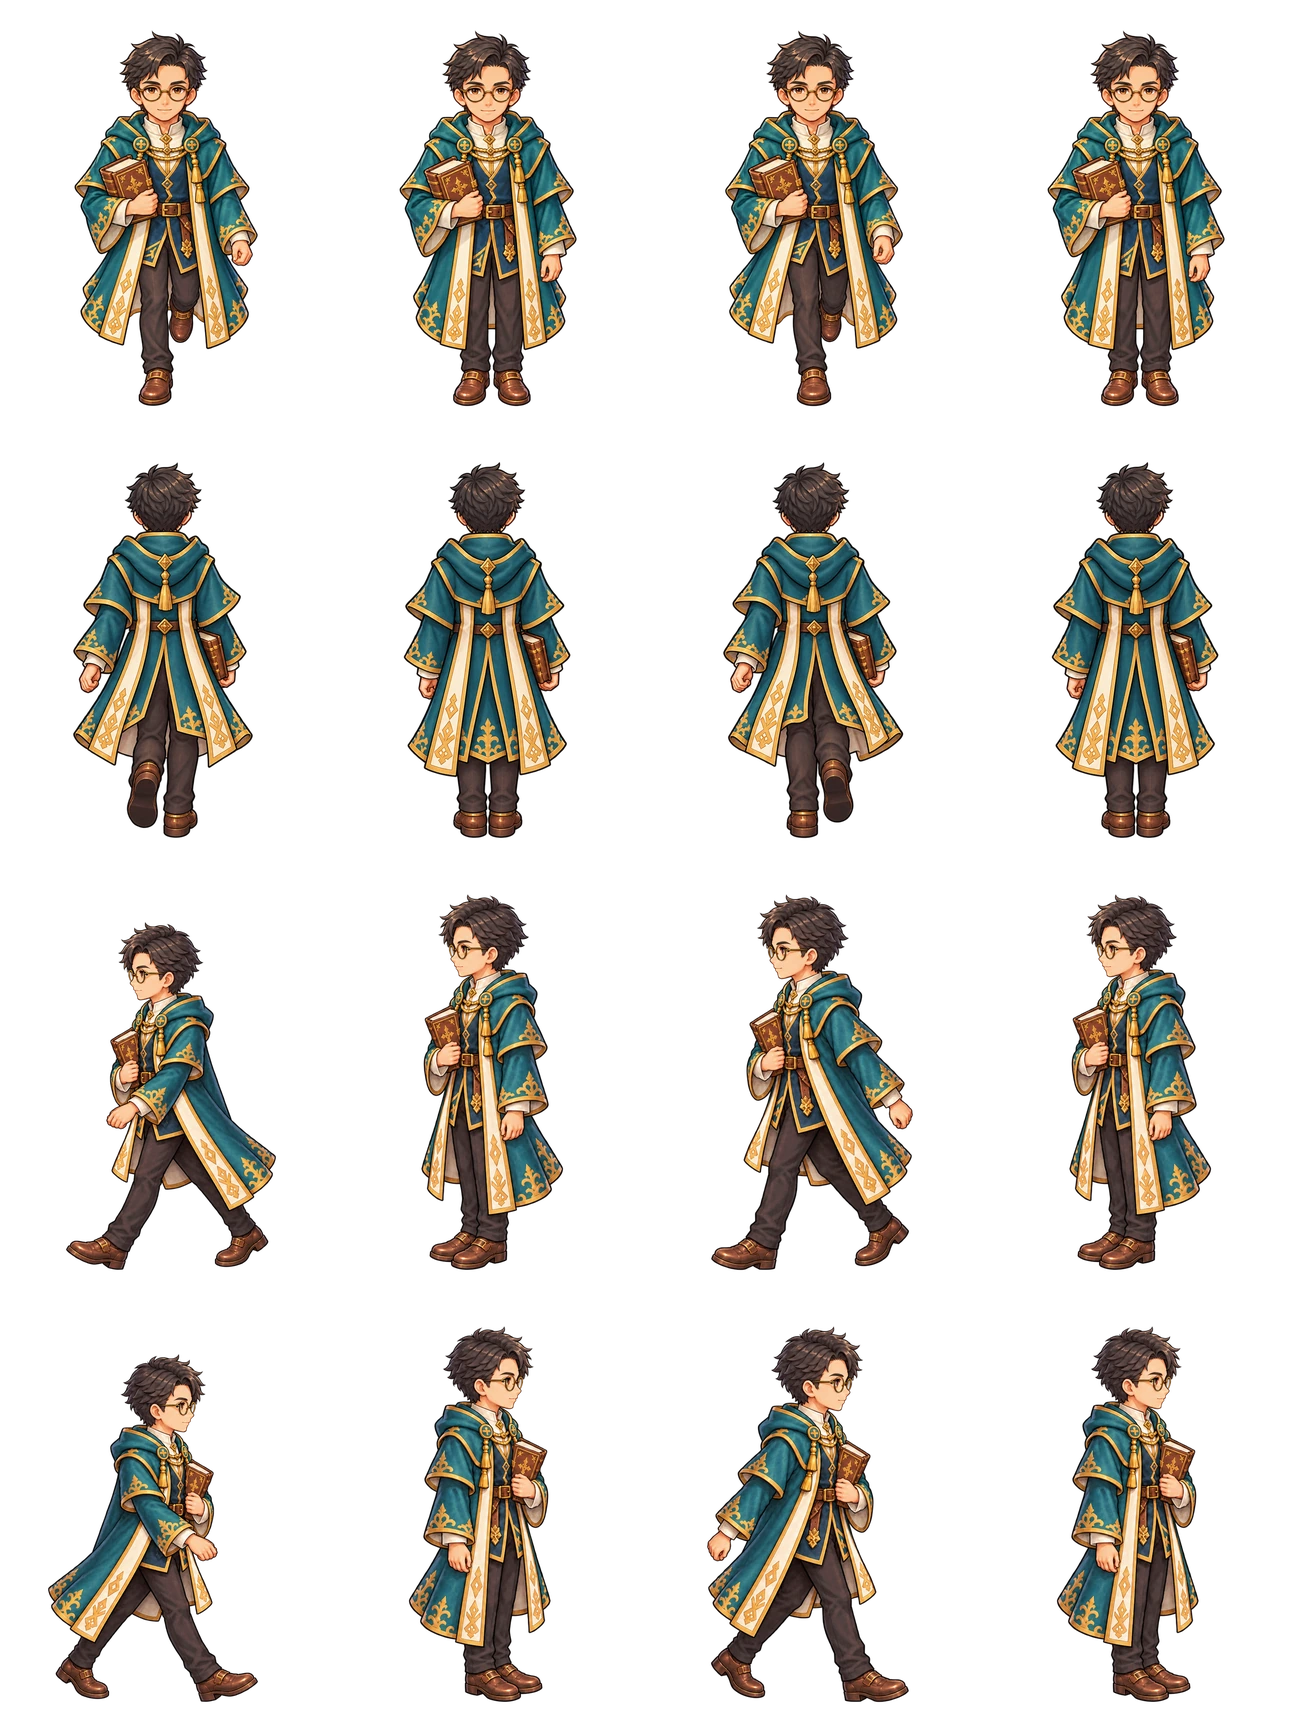
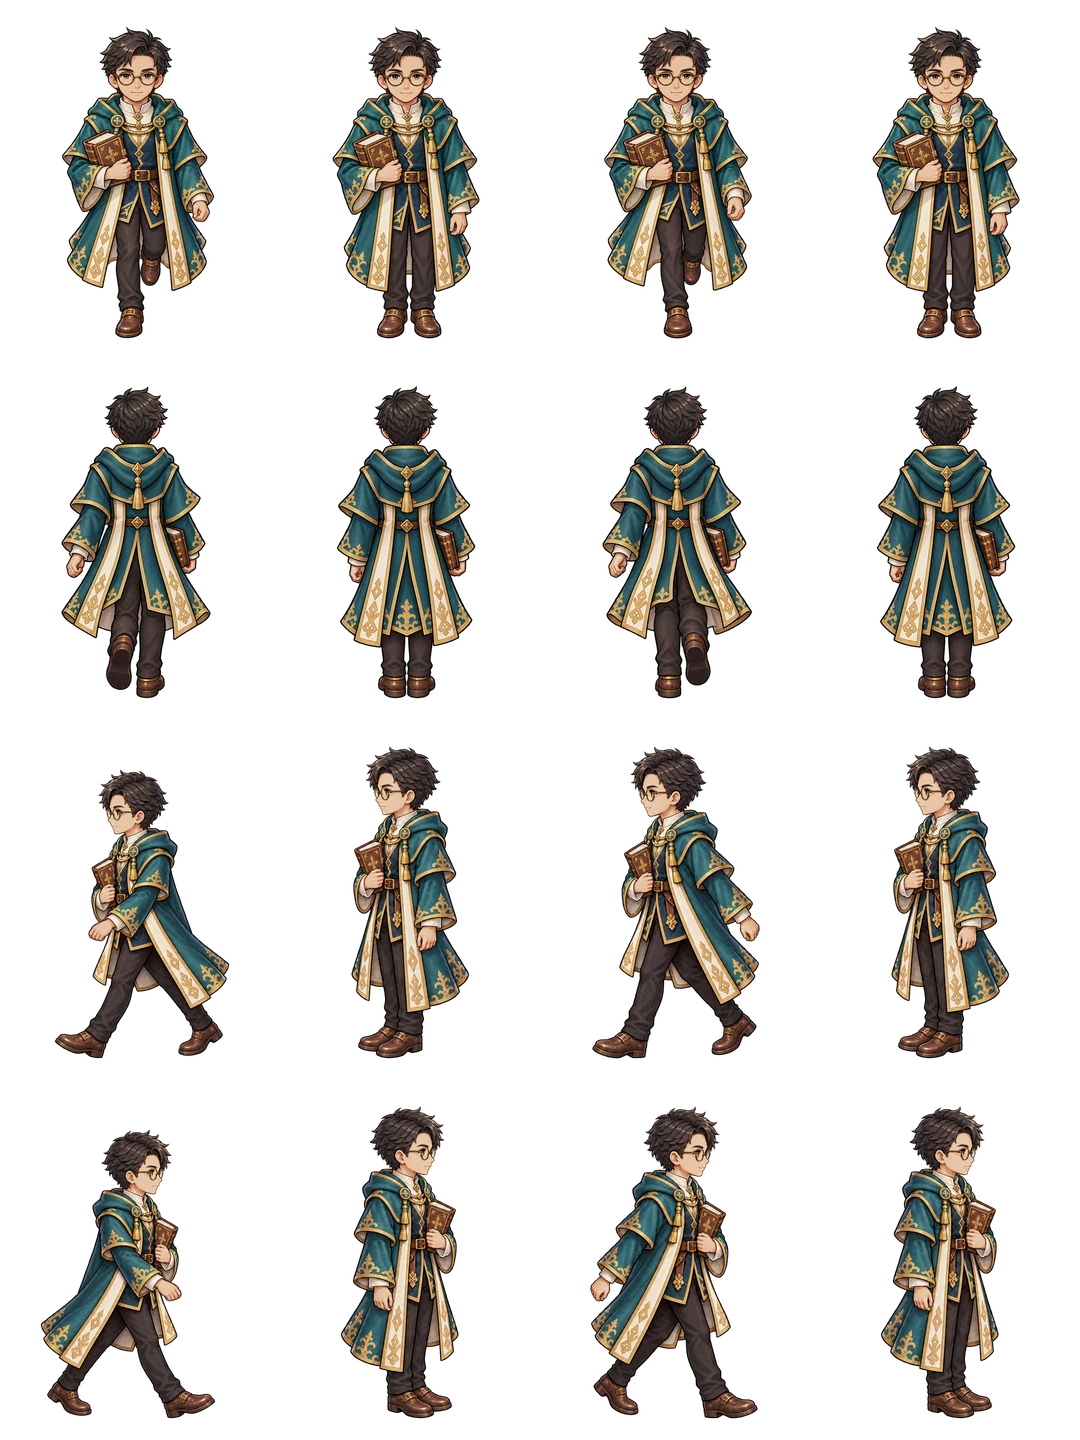
歩くときのコマ飛び対策：人物の色の調整を絵に焼き込み、絵を1.25倍に、毎コマの余計な書き換えを減らす
Claude-Session: https://claude.ai/code/session_01RvBABkjo9HJpsiThHncs5B

diff --git a/src/ui/screens/worldScreen.ts b/src/ui/screens/worldScreen.ts
@@ -329,14 +329,17 @@ class WorldView {
     const k = this.#figureH / (FRAME_H / 2);
     const f = this.#foot(p);
     el.style.transform = `translate(${f.x - (FOOT_X / 2) * k}px, ${f.y - (FOOT_Y / 2) * k - lift}px)`;
-    el.style.zIndex = String(10 + Math.round(f.y));
+    // 変わったときだけ書く（毎コマ書くと、iPhone で重なり順の計算し直しが重くなる）
+    const z = String(10 + Math.round(f.y));
+    if (el.style.zIndex !== z) el.style.zIndex = z;
     const shadow = this.#shadows.get(el);
     if (shadow) shadow.style.transform = `translate(${f.x}px, ${f.y}px)`;
   }
 
   /** 人物の足元の影（地面に置く。家具・人物より奥） */
   #addShadow(el: HTMLElement): void {
-    const shadow = h('div', { class: 'world__shadow', attrs: { 'aria-hidden': 'true' } });
+    const cls = el === this.#player ? 'world__shadow world__shadow--player' : 'world__shadow';
+    const shadow = h('div', { class: cls, attrs: { 'aria-hidden': 'true' } });
     const w = this.#figureH * 0.5;
     Object.assign(shadow.style, { width: `${w}px`, height: `${w * 0.32}px`, marginLeft: `${-w / 2}px`, marginTop: `${-w * 0.16}px` });
     this.#shadows.set(el, shadow);
@@ -813,8 +816,10 @@ class WorldView {
         sign.el.style.transform = `translate(-50%, calc(-100% + ${shift.toFixed(1)}px))`;
       }
     }
-    this.#root.dataset.px = String(this.#tile.x);
-    this.#root.dataset.py = String(this.#tile.y);
+    const px = String(this.#tile.x);
+    const py = String(this.#tile.y);
+    if (this.#root.dataset.px !== px) this.#root.dataset.px = px;
+    if (this.#root.dataset.py !== py) this.#root.dataset.py = py;
     if (!this.#move) this.#updateNear();
   }
 

diff --git a/src/ui/styles/world.css b/src/ui/styles/world.css
@@ -115,11 +115,8 @@
   -webkit-user-drag: none;
 }
 
-/* 2026-10-23：大人向けに、人物などの絵の色を少し落ち着かせる（彩度を下げ、わずかに暗く）。
-   街・部屋・家具は大人向けに描き直した絵（2026-10-23 納品）が落ち着いた色なので、色の調整はしない。
-   人物の描き直しが届いたら、人物の値も見直す */
-.world__map--art .world__player,
-.world__map--art .world__npc,
+/* 2026-10-23：大人向けに、宝箱の絵の色を少し落ち着かせる（彩度を下げ、わずかに暗く）。
+   人物は同じ色の調整を絵に焼き込んだ（tools/art/adult_walk_build.py --tone）。filter のままだと歩くたびに描き直しが重く、iPhone でコマが飛んだ */
 .world__map--art .world__chest {
   filter: saturate(0.72) brightness(0.94) contrast(1.06);
 }
@@ -328,6 +325,12 @@
   left: 0;
   background-repeat: no-repeat;
   pointer-events: none;
+}
+
+/* 主人公と足元の影は毎コマ動くので、地図とは別の層にして、動かすだけで描き直さないように */
+.world__player,
+.world__shadow--player {
+  will-change: transform;
 }
 
 /* 移動のスティック：指を置いた所に、触っている間だけ半透明で出る */

diff --git a/tools/art/adult_walk_build.py b/tools/art/adult_walk_build.py
@@ -15,8 +15,11 @@
 使い方:
   python3 tools/art/adult_walk_build.py 届いた絵のフォルダ ID 出力.png [--npc] [--idle 立ち絵の出力.png] [--scale 倍率]
 
---scale：コマの大きさの倍率（2026-10-23 追加）。1.5 なら 1コマ 324×432・足元 (162, 405)。並び・位置の割合は同じなので、
-  ゲームはそのまま読める。人物を大きく表示してもぼやけないように、ゲームのシートは 1.5 で作る（出力は .webp）
+--scale：コマの大きさの倍率（2026-10-23 追加）。1.25 なら 1コマ 270×360・足元 (135, 338)。並び・位置の割合は同じなので、
+  ゲームはそのまま読める。人物を大きく表示してもぼやけないように、ゲームのシートは 1.25 で作る（出力は .webp）。
+  1.5 も試したが、iPhone で絵が大きすぎて歩くときにコマが飛んだ（2026-10-23）
+--tone：大人向けの色の落ち着かせ（彩度 0.72・明るさ 0.94・コントラスト 1.06）を絵に焼き込む（2026-10-23 追加）。
+  それまでは CSS の filter で毎回計算していて、歩くたびに描き直しが重くなっていた
 """
 import sys
 
@@ -108,6 +111,23 @@ def figure_height(sheet: Image.Image) -> int:
     return int(ys[-1] - ys[0])
 
 
+def tone(im: Image.Image) -> Image.Image:
+    """CSS の filter: saturate(0.72) brightness(0.94) contrast(1.06) と同じ計算（sRGB のまま）"""
+    a = np.asarray(im).astype(np.float64) / 255
+    rgb, al = a[..., :3], a[..., 3:]
+    s = 0.72
+    m = np.array([
+        [0.213 + 0.787 * s, 0.715 - 0.715 * s, 0.072 - 0.072 * s],
+        [0.213 - 0.213 * s, 0.715 + 0.285 * s, 0.072 - 0.072 * s],
+        [0.213 - 0.213 * s, 0.715 - 0.715 * s, 0.072 + 0.928 * s],
+    ])
+    rgb = np.clip(rgb @ m.T, 0, 1)
+    rgb = np.clip(rgb * 0.94, 0, 1)
+    rgb = np.clip((rgb - 0.5) * 1.06 + 0.5, 0, 1)
+    out = np.concatenate([rgb, al], axis=-1)
+    return Image.fromarray(np.round(out * 255).astype(np.uint8), 'RGBA')
+
+
 def main() -> None:
     args = sys.argv[1:]
     npc = '--npc' in args
@@ -130,6 +150,8 @@ def main() -> None:
     for r, frames in enumerate(rows):
         for c, f in enumerate(frames):
             out.alpha_composite(f, (c * FW, r * FH))
+    if '--tone' in args:
+        out = tone(out)
     if out_path.endswith('.webp'):
         out.save(out_path, quality=92, method=6)
     else:
